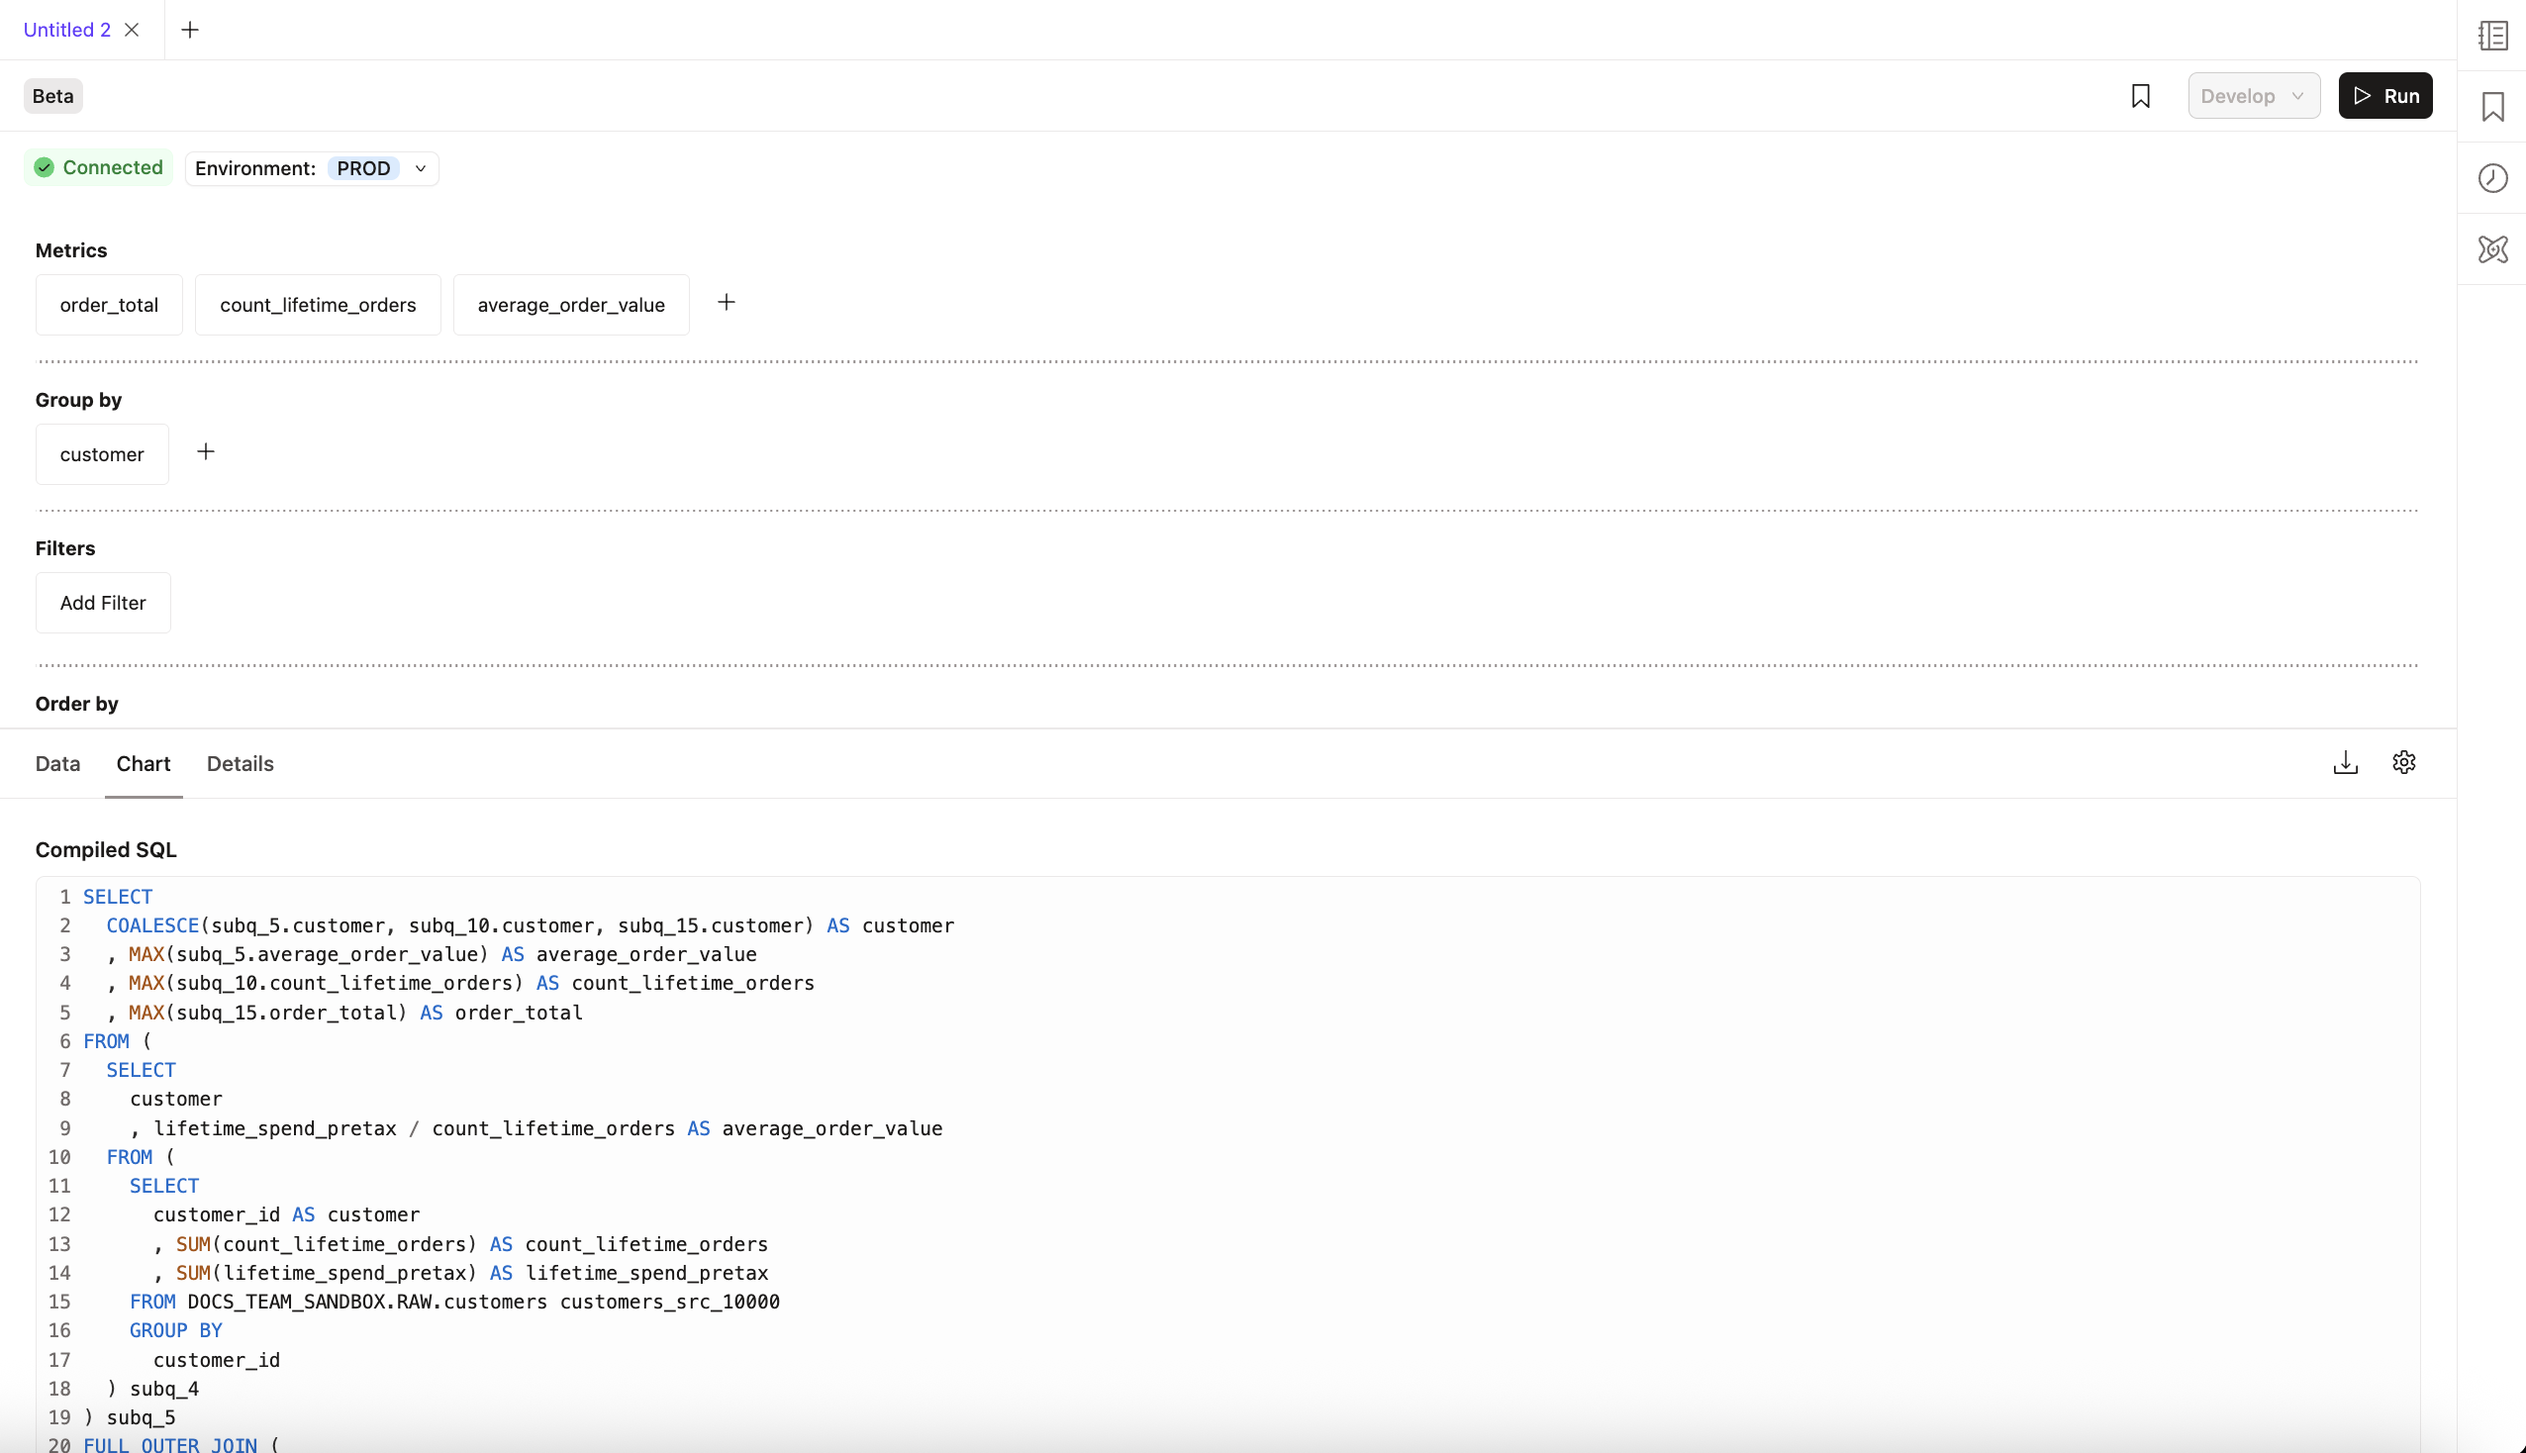
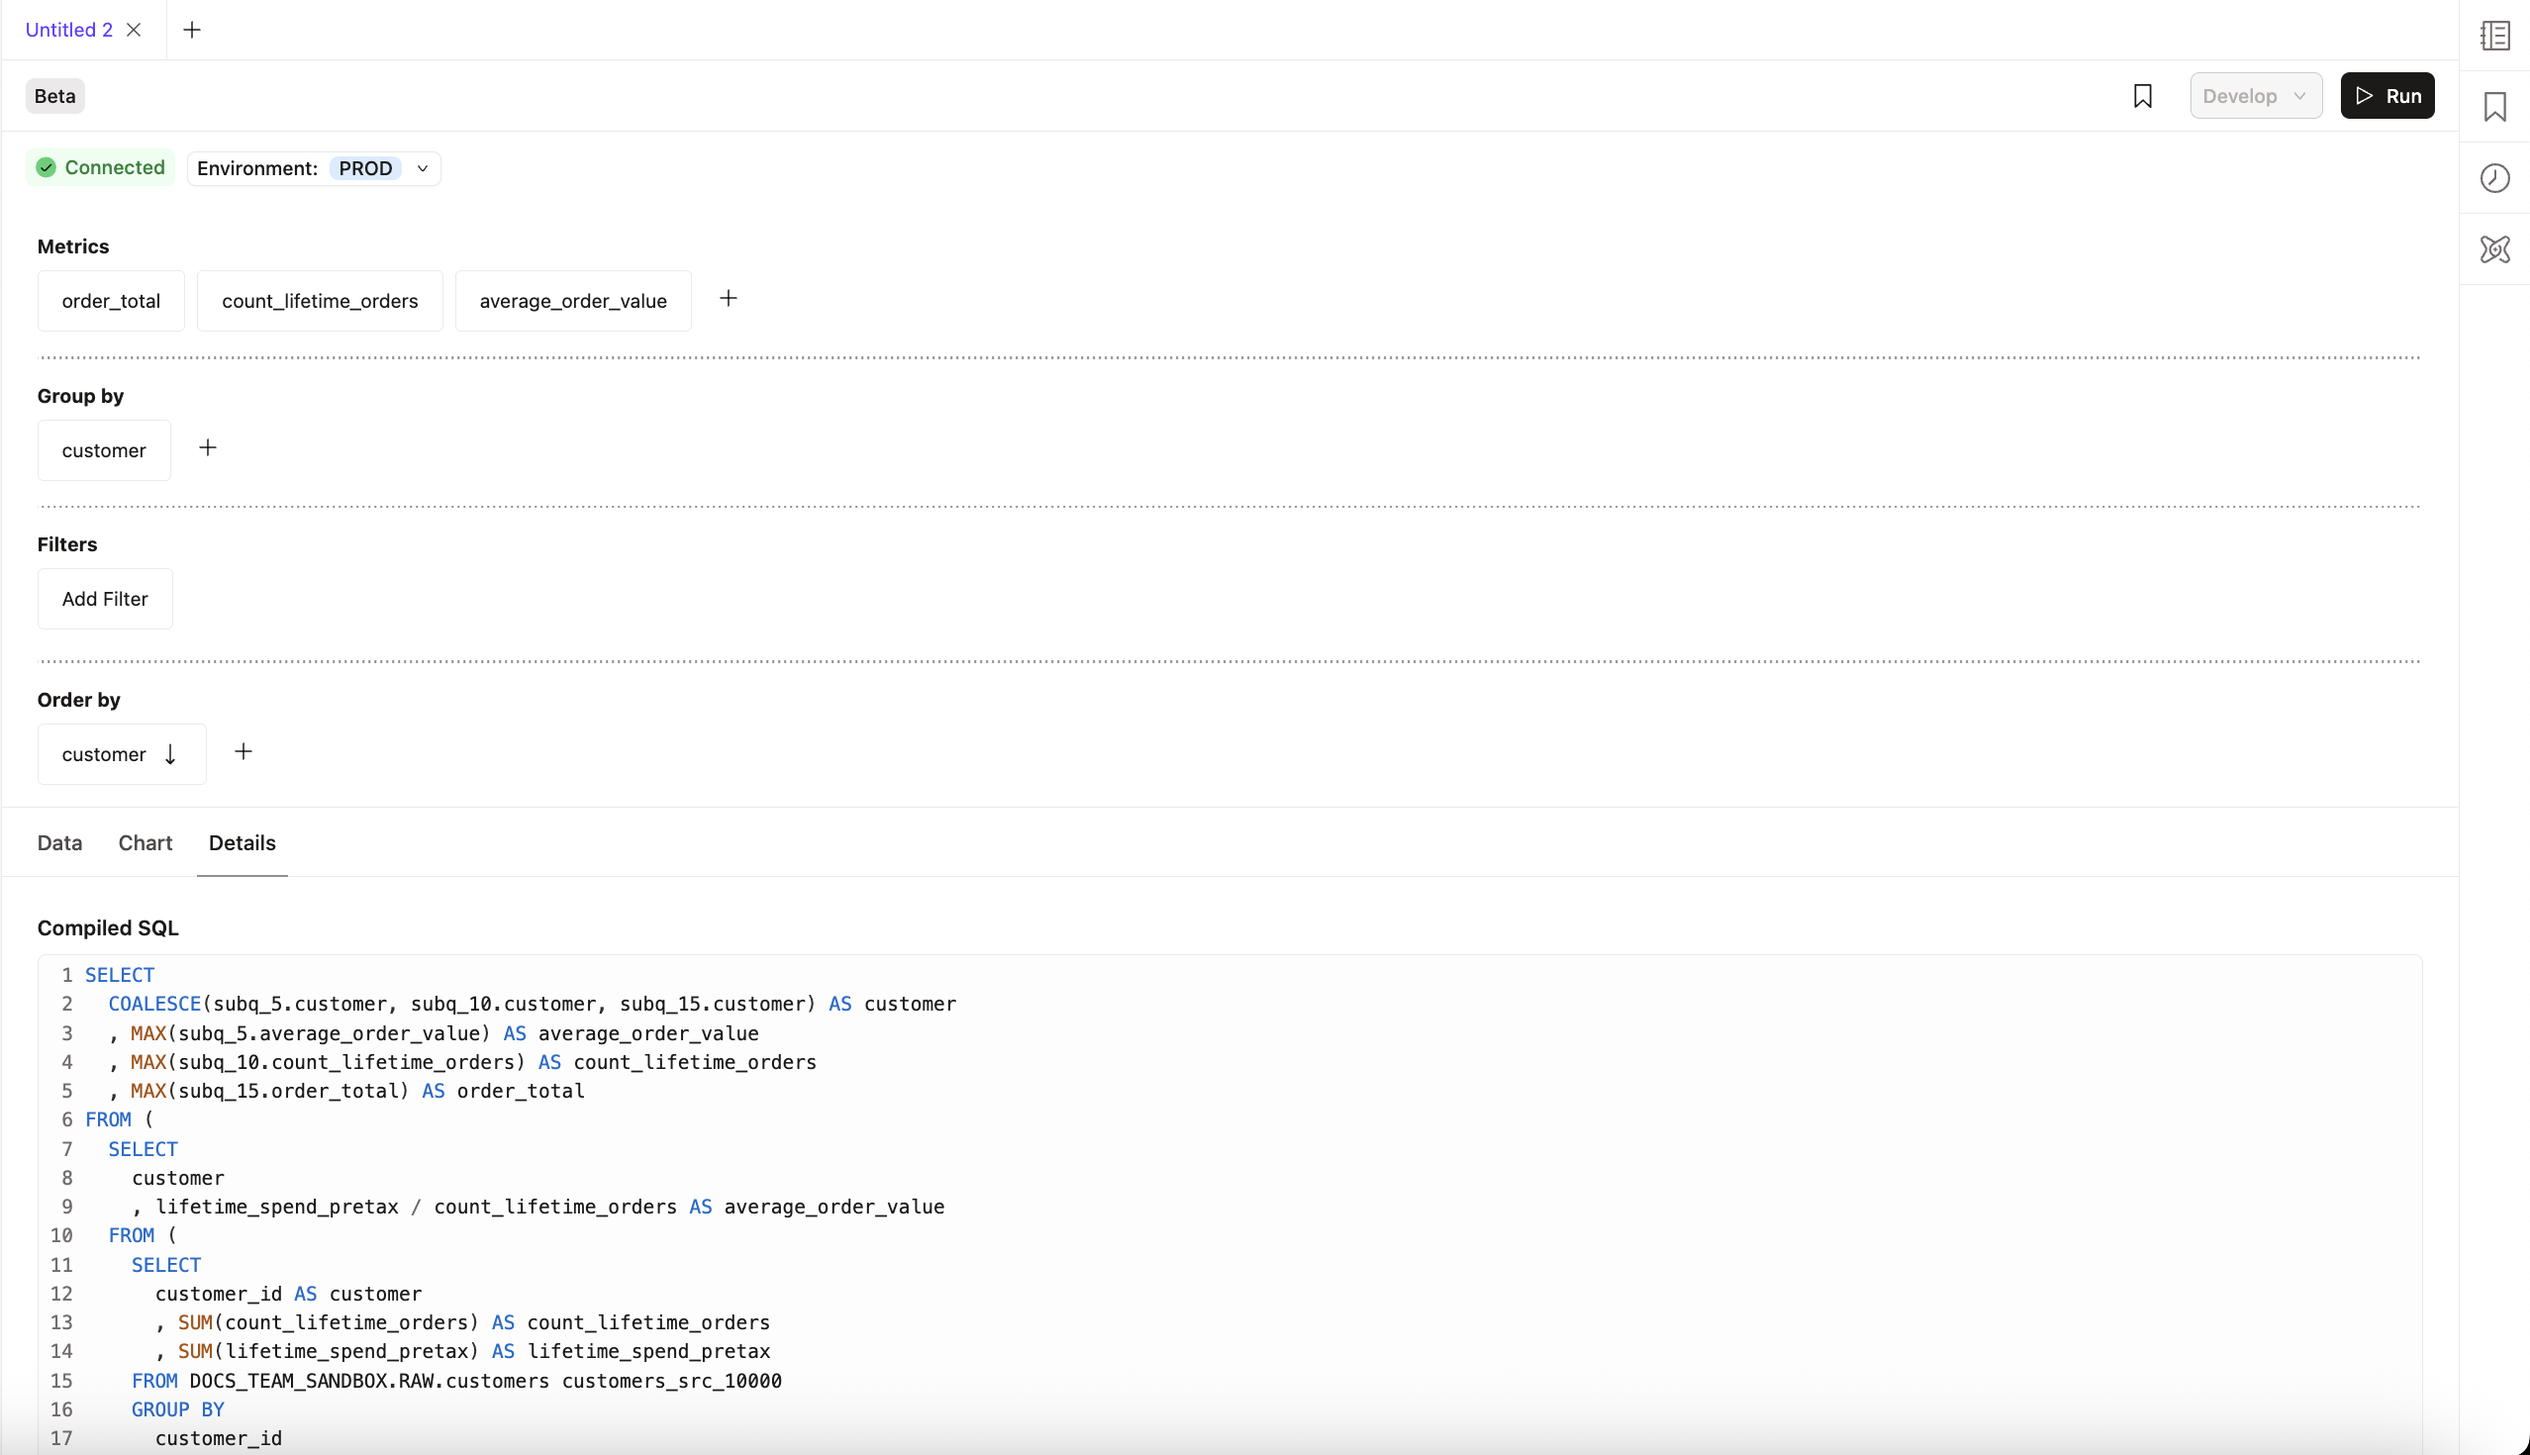
Details tab

diff --git a/website/docs/docs/explore/navigate-dbt-insights.md b/website/docs/docs/explore/navigate-dbt-insights.md
@@ -57,7 +57,7 @@ To create a query in Query Builder:
     - Click **Add Order by** to select how you want to sort the results of your query. 
     - Click **Add Limit**, select the amount of results you want to see when you run your query. If left blank, you will get all the results. 
 4. Click **Run** to run your query.
-    Results are available in the **Data** tab. You can see the SQL code generated in the **Chart** tab.
+    Results are available in the **Data** tab. You can see the SQL code generated in the **Details** tab.
 
     <DocCarousel slidesPerView={1}>
 
@@ -65,7 +65,7 @@ To create a query in Query Builder:
 
     <Lightbox src="/img/docs/dbt-insights/insights-query-builder.png" title="Results are displayed in the Data tab" />
 
-    <Lightbox src="/img/docs/dbt-insights/insights-query-builder-sql.png" title="The generated SQL code in the Chart tab" />
+    <Lightbox src="/img/docs/dbt-insights/insights-query-builder-sql.png" title="The generated SQL code in the Details tab" />
 
     </DocCarousel>
 
